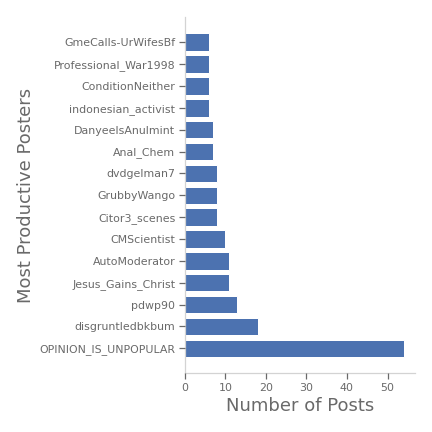
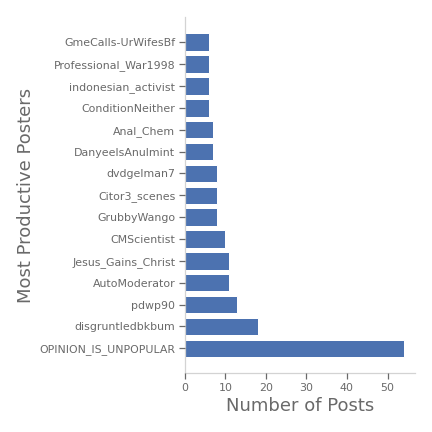
bug catching

diff --git a/wsba.py b/wsba.py
@@ -186,7 +186,7 @@ def makebiggestauthortable():
     print('| Poster | Post Count | Posts/Day |')
     print('|--------|------------|-----------|')
     for author,count,rate in zip(authors,counts,rates):
-        print(f'| <a href=https://www.reddit.com/user/{author}/>{author}</a> | {count} | {rate} |')
+        print(f'| <a href=https://www.reddit.com/user/{author}/>{author}</a> | {count} | {round(rate,2)} |')
 
 def getsubmissiondeltas(max=None,log=True,save=None):
     submission_dates = wsbs.aggregate( [ {

diff --git a/README.md b/README.md
@@ -45,21 +45,21 @@ NameError: name 'groupbyauthor' is not defined submission authors are represente
 
 | Poster | Post Count | Posts/Day |
 |--------|------------|-----------|
-| <a href=https://www.reddit.com/user/OPINION_IS_UNPOPULAR/>OPINION_IS_UNPOPULAR</a> | 54 | 2.97797158876214 |
-| <a href=https://www.reddit.com/user/disgruntledbkbum/>disgruntledbkbum</a> | 18 | 0.9926571962540467 |
-| <a href=https://www.reddit.com/user/pdwp90/>pdwp90</a> | 13 | 0.7169190861834782 |
-| <a href=https://www.reddit.com/user/AutoModerator/>AutoModerator</a> | 11 | 0.6066238421552508 |
-| <a href=https://www.reddit.com/user/Jesus_Gains_Christ/>Jesus_Gains_Christ</a> | 11 | 0.6066238421552508 |
-| <a href=https://www.reddit.com/user/CMScientist/>CMScientist</a> | 10 | 0.5514762201411371 |
-| <a href=https://www.reddit.com/user/dvdgelman7/>dvdgelman7</a> | 8 | 0.44118097611290963 |
-| <a href=https://www.reddit.com/user/GrubbyWango/>GrubbyWango</a> | 8 | 0.44118097611290963 |
-| <a href=https://www.reddit.com/user/Citor3_scenes/>Citor3_scenes</a> | 8 | 0.44118097611290963 |
-| <a href=https://www.reddit.com/user/Anal_Chem/>Anal_Chem</a> | 7 | 0.38603335409879597 |
-| <a href=https://www.reddit.com/user/DanyeelsAnulmint/>DanyeelsAnulmint</a> | 7 | 0.38603335409879597 |
-| <a href=https://www.reddit.com/user/GmeCalls-UrWifesBf/>GmeCalls-UrWifesBf</a> | 6 | 0.33088573208468225 |
-| <a href=https://www.reddit.com/user/ConditionNeither/>ConditionNeither</a> | 6 | 0.33088573208468225 |
-| <a href=https://www.reddit.com/user/indonesian_activist/>indonesian_activist</a> | 6 | 0.33088573208468225 |
-| <a href=https://www.reddit.com/user/Professional_War1998/>Professional_War1998</a> | 6 | 0.33088573208468225 |
+| <a href=https://www.reddit.com/user/OPINION_IS_UNPOPULAR/>OPINION_IS_UNPOPULAR</a> | 54 | 2.98 |
+| <a href=https://www.reddit.com/user/disgruntledbkbum/>disgruntledbkbum</a> | 18 | 0.99 |
+| <a href=https://www.reddit.com/user/pdwp90/>pdwp90</a> | 13 | 0.72 |
+| <a href=https://www.reddit.com/user/Jesus_Gains_Christ/>Jesus_Gains_Christ</a> | 11 | 0.61 |
+| <a href=https://www.reddit.com/user/AutoModerator/>AutoModerator</a> | 11 | 0.61 |
+| <a href=https://www.reddit.com/user/CMScientist/>CMScientist</a> | 10 | 0.55 |
+| <a href=https://www.reddit.com/user/Citor3_scenes/>Citor3_scenes</a> | 8 | 0.44 |
+| <a href=https://www.reddit.com/user/GrubbyWango/>GrubbyWango</a> | 8 | 0.44 |
+| <a href=https://www.reddit.com/user/dvdgelman7/>dvdgelman7</a> | 8 | 0.44 |
+| <a href=https://www.reddit.com/user/DanyeelsAnulmint/>DanyeelsAnulmint</a> | 7 | 0.39 |
+| <a href=https://www.reddit.com/user/Anal_Chem/>Anal_Chem</a> | 7 | 0.39 |
+| <a href=https://www.reddit.com/user/Professional_War1998/>Professional_War1998</a> | 6 | 0.33 |
+| <a href=https://www.reddit.com/user/indonesian_activist/>indonesian_activist</a> | 6 | 0.33 |
+| <a href=https://www.reddit.com/user/ConditionNeither/>ConditionNeither</a> | 6 | 0.33 |
+| <a href=https://www.reddit.com/user/GmeCalls-UrWifesBf/>GmeCalls-UrWifesBf</a> | 6 | 0.33 |
 
 # Some Initial Observations
 1. Stocks are sometimes written in capital letters in the middle of a word
